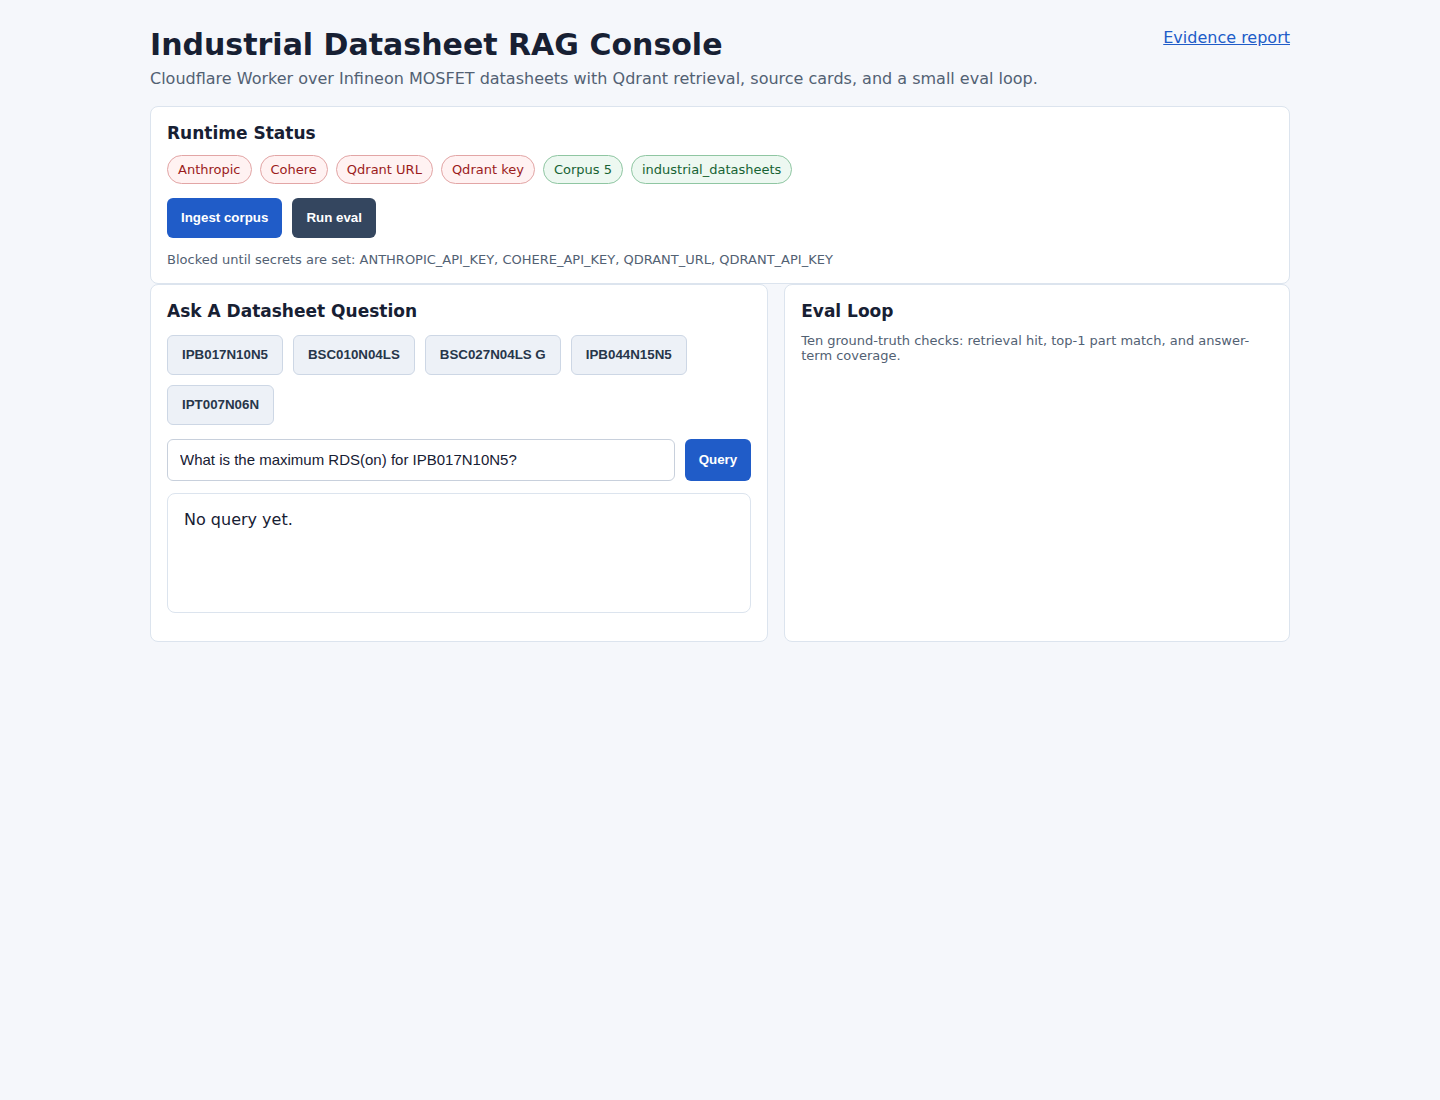
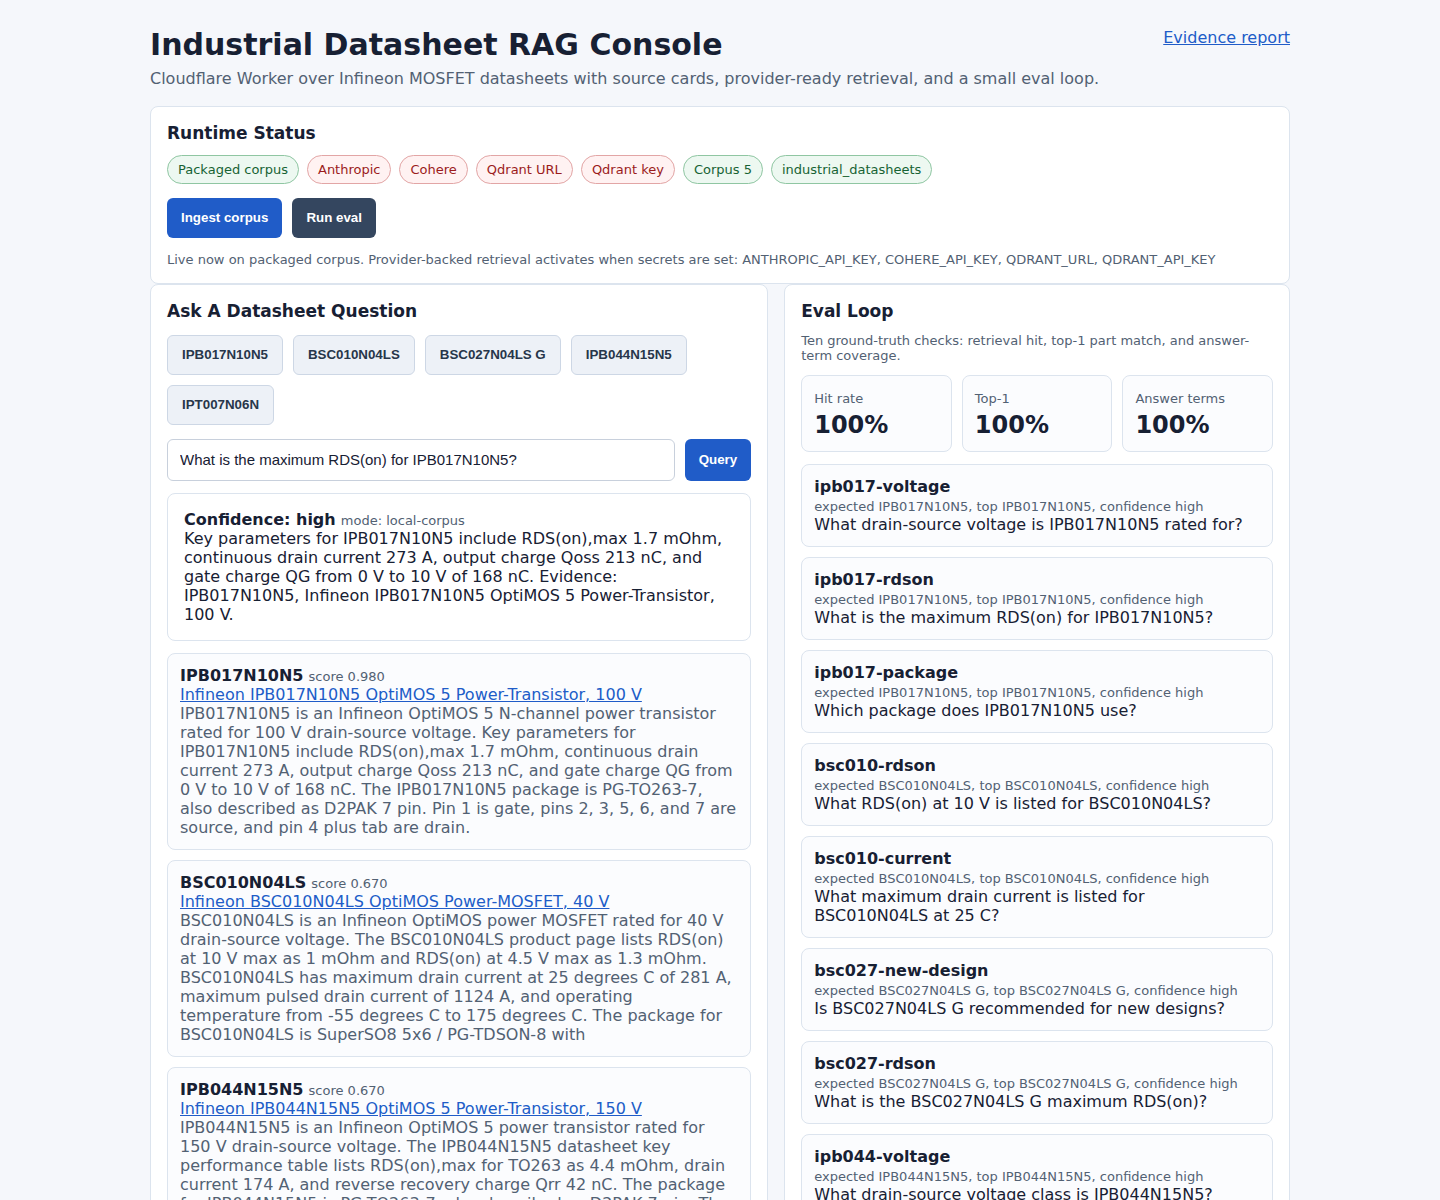
Make console live on packaged corpus

diff --git a/src/rag/local.ts b/src/rag/local.ts
@@ -1,0 +1,116 @@
+import { corpus } from "../corpus/manifest";
+import { chunksFromCorpusFacts } from "./chunk";
+import { confidenceFromRetrievals } from "./answer";
+import type { DatasheetChunk, QueryResponse, Retrieval } from "../types";
+
+const STOP_WORDS = new Set([
+  "a",
+  "an",
+  "and",
+  "are",
+  "at",
+  "for",
+  "in",
+  "is",
+  "of",
+  "on",
+  "the",
+  "this",
+  "to",
+  "what",
+  "which",
+  "with"
+]);
+
+export function allLocalChunks(): DatasheetChunk[] {
+  return corpus.flatMap((doc) => chunksFromCorpusFacts(doc));
+}
+
+export function queryLocalCorpus(question: string): QueryResponse {
+  const retrievals = retrieveLocal(question, 5);
+  const answer = answerFromRetrievals(question, retrievals);
+
+  return {
+    answer,
+    sources: retrievals.map((item) => ({
+      title: item.title,
+      sourceUrl: item.sourceUrl,
+      partNumber: item.partNumber,
+      score: item.score,
+      excerpt: item.text.slice(0, 420)
+    })),
+    confidence: confidenceFromRetrievals(retrievals),
+    retrievals,
+    mode: "local-corpus"
+  };
+}
+
+export function retrieveLocal(question: string, limit: number): Retrieval[] {
+  const queryTokens = tokenize(question);
+  const queryParts = new Set(extractPartNumbers(question));
+
+  return allLocalChunks()
+    .map((chunk) => {
+      const chunkTokens = tokenize(chunk.text);
+      const overlap = queryTokens.filter((token) => chunkTokens.includes(token)).length;
+      const partBoost = queryParts.has(normalizePartNumber(chunk.partNumber)) ? 8 : 0;
+      const score = Math.min(0.98, 0.42 + (overlap + partBoost) / Math.max(12, queryTokens.length + 8));
+
+      return {
+        ...chunk,
+        score
+      };
+    })
+    .sort((a, b) => b.score - a.score)
+    .slice(0, limit);
+}
+
+function answerFromRetrievals(question: string, retrievals: Retrieval[]): string {
+  const top = retrievals[0];
+  if (!top) {
+    return "The packaged corpus does not contain enough evidence to answer this question.";
+  }
+
+  const sentence = bestSentence(question, top.text);
+  return `${sentence} Evidence: ${top.partNumber}, ${top.title}.`;
+}
+
+function bestSentence(question: string, text: string): string {
+  const queryTokens = tokenize(question);
+  const sentences = text
+    .split(/(?<=[.!?])\s+/)
+    .map((sentence) => sentence.trim())
+    .filter(Boolean);
+
+  const [best] = sentences
+    .map((sentence) => {
+      const tokens = tokenize(sentence);
+      const overlap = queryTokens.filter((token) => tokens.includes(token)).length;
+      return { sentence, overlap };
+    })
+    .sort((a, b) => b.overlap - a.overlap);
+
+  return best?.sentence ?? text.slice(0, 260);
+}
+
+function tokenize(value: string): string[] {
+  return Array.from(
+    new Set(
+      value
+        .toLowerCase()
+        .replace(/rds\(on\)/g, "rdson rds on")
+        .match(/[a-z0-9]+(?:\.[0-9]+)?/g)
+        ?.filter((token) => token.length > 1 && !STOP_WORDS.has(token)) ?? []
+    )
+  );
+}
+
+function extractPartNumbers(value: string): string[] {
+  return value
+    .match(/[A-Z]{2,}[A-Z0-9-]+(?:\sG)?/gi)
+    ?.map(normalizePartNumber) ?? [];
+}
+
+function normalizePartNumber(value: string): string {
+  return value.toLowerCase().replace(/[^a-z0-9]/g, "");
+}

diff --git a/test/api.test.ts b/test/api.test.ts
@@ -2,6 +2,8 @@ import { describe, expect, it } from "bun:test";
 import { badRequest, missingSecretError, toApiError } from "../src/api/errors";
 import { inspectHealth } from "../src/api/health";
 import { consoleQuestions } from "../src/console/questions";
+import { runEval } from "../src/eval/scoring";
+import { queryRag } from "../src/rag/pipeline";
 
 describe("health", () => {
   it("reports missing secrets without exposing configured values", () => {
@@ -11,7 +13,9 @@ describe("health", () => {
       QDRANT_COLLECTION: "industrial_collection"
     });
 
-    expect(health.ok).toBe(false);
+    expect(health.ok).toBe(true);
+    expect(health.providerReady).toBe(false);
+    expect(health.mode).toBe("local-corpus");
     expect(health.missingSecrets).toEqual(["QDRANT_URL", "QDRANT_API_KEY"]);
     expect(JSON.stringify(health)).not.toContain("secret");
     expect(health.collection).toBe("industrial_collection");
@@ -26,8 +30,28 @@ describe("health", () => {
     });
 
     expect(health.ok).toBe(true);
+    expect(health.providerReady).toBe(true);
+    expect(health.mode).toBe("provider-backed");
     expect(health.missingSecrets).toEqual([]);
     expect(health.corpusCount).toBe(5);
+  });
+});
+
+describe("live local corpus mode", () => {
+  it("answers a query without provider secrets", async () => {
+    const result = await queryRag({}, "What is the maximum RDS(on) for IPB017N10N5?");
+
+    expect(result.mode).toBe("local-corpus");
+    expect(result.answer).toContain("1.7 mOhm");
+    expect(result.sources[0].partNumber).toBe("IPB017N10N5");
+  });
+
+  it("runs eval without provider secrets", async () => {
+    const result = await runEval({});
+
+    expect(result.total).toBe(10);
+    expect(result.hitRate).toBeGreaterThanOrEqual(0.8);
+    expect(result.top1Accuracy).toBeGreaterThanOrEqual(0.8);
   });
 });
 

diff --git a/src/rag/pipeline.ts b/src/rag/pipeline.ts
@@ -1,17 +1,29 @@
 import { embedDocuments, embedQuery } from "./embed";
 import { chunksFromPdfUrl } from "./pdf";
+import { allLocalChunks, queryLocalCorpus } from "./local";
 import { searchChunks, upsertChunks } from "./qdrant";
 import { answerQuestion } from "./answer";
 import type { Env, QueryResponse } from "../types";
 
 export async function ingestPdf(env: Env, input: { pdfUrl: string; documentId?: string }) {
+  if (!hasProviderConfig(env)) {
+    const chunks = allLocalChunks().filter((chunk) => !input.documentId || chunk.documentId === input.documentId);
+    return {
+      documentId: input.documentId ?? "packaged-corpus",
+      chunks: chunks.length,
+      sourceUrl: input.pdfUrl,
+      mode: "local-corpus" as const
+    };
+  }
+
   const chunks = await chunksFromPdfUrl(input.pdfUrl, input.documentId);
   const embeddings = await embedDocuments(env, chunks.map((chunk) => chunk.text));
   await upsertChunks(env, chunks, embeddings);
   return {
     documentId: chunks[0]?.documentId,
     chunks: chunks.length,
-    sourceUrl: input.pdfUrl
+    sourceUrl: input.pdfUrl,
+    mode: "provider-backed" as const
   };
 }
 
@@ -19,7 +31,16 @@ export async function queryRag(env: Env, question: string): Promise<QueryRespons
   if (!question.trim()) {
     throw new Error("question must not be empty");
   }
+
+  if (!hasProviderConfig(env)) {
+    return queryLocalCorpus(question);
+  }
+
   const queryVector = await embedQuery(env, question);
   const retrievals = await searchChunks(env, queryVector, 5);
   return answerQuestion(env, question, retrievals);
+}
+
+export function hasProviderConfig(env: Env): boolean {
+  return Boolean(env.ANTHROPIC_API_KEY && env.COHERE_API_KEY && env.QDRANT_URL && env.QDRANT_API_KEY);
 }

diff --git a/src/console/page.ts b/src/console/page.ts
@@ -62,7 +62,7 @@ export function renderConsole(): string {
     <header>
       <div>
         <h1>Industrial Datasheet RAG Console</h1>
-        <p>Cloudflare Worker over Infineon MOSFET datasheets with Qdrant retrieval, source cards, and a small eval loop.</p>
+        <p>Cloudflare Worker over Infineon MOSFET datasheets with source cards, provider-ready retrieval, and a small eval loop.</p>
       </div>
       <a href="/report" target="_blank" rel="noreferrer">Evidence report</a>
     </header>
@@ -111,7 +111,12 @@ export function renderConsole(): string {
     const ingestButton = document.querySelector("#ingest");
     const evalButton = document.querySelector("#eval");
 
-    loadReport();
+    loadReport().then(() => {
+      if (new URLSearchParams(location.search).get("proof") === "1") {
+        query(questionInput.value);
+        getJson("/eval").then(renderEval);
+      }
+    });
 
     ingestButton.addEventListener("click", async () => {
       await runAction(ingestButton, async () => {
@@ -149,6 +154,7 @@ export function renderConsole(): string {
 
     function renderHealth(health) {
       const items = [
+        [health.mode === "provider-backed" ? "Provider-backed" : "Packaged corpus", true],
         ["Anthropic", health.configured.anthropic],
         ["Cohere", health.configured.cohere],
         ["Qdrant URL", health.configured.qdrantUrl],
@@ -157,7 +163,7 @@ export function renderConsole(): string {
         [health.collection, true]
       ];
       statusEl.innerHTML = items.map(([label, ok]) => '<span class="pill ' + (ok ? "ok" : "blocked") + '">' + escapeHtml(label) + '</span>').join("");
-      detailEl.textContent = health.ok ? "Ready for ingest, query, and eval." : "Blocked until secrets are set: " + health.missingSecrets.join(", ");
+      detailEl.textContent = health.providerReady ? "Provider-backed retrieval is ready." : "Live now on packaged corpus. Provider-backed retrieval activates when secrets are set: " + health.missingSecrets.join(", ");
     }
 
     function renderQuestions(questions) {
@@ -178,7 +184,7 @@ export function renderConsole(): string {
         renderError(answerEl, data.error);
         return;
       }
-      answerEl.innerHTML = "<strong>Confidence: " + escapeHtml(data.confidence) + "</strong><br>" + escapeHtml(data.answer);
+      answerEl.innerHTML = '<strong>Confidence: ' + escapeHtml(data.confidence) + '</strong> <span class="meta">mode: ' + escapeHtml(data.mode || "unknown") + '</span><br>' + escapeHtml(data.answer);
       sourcesEl.innerHTML = data.sources.map((source) => '<article class="source"><strong>' + escapeHtml(source.partNumber) + '</strong> <span class="meta">score ' + Number(source.score).toFixed(3) + '</span><br><a href="' + escapeHtml(source.sourceUrl) + '" target="_blank" rel="noreferrer">' + escapeHtml(source.title) + '</a><p>' + escapeHtml(source.excerpt) + '</p></article>').join("");
     }
 

diff --git a/src/api/health.ts b/src/api/health.ts
@@ -9,13 +9,16 @@ export function inspectHealth(env: Env) {
   const missingSecrets = REQUIRED_SECRETS.filter((name) => !env[name]);
 
   return {
-    ok: missingSecrets.length === 0,
+    ok: true,
+    providerReady: missingSecrets.length === 0,
+    mode: missingSecrets.length === 0 ? "provider-backed" : "local-corpus",
     missingSecrets,
     configured: {
       anthropic: Boolean(env.ANTHROPIC_API_KEY),
       cohere: Boolean(env.COHERE_API_KEY),
       qdrantUrl: Boolean(env.QDRANT_URL),
-      qdrantApiKey: Boolean(env.QDRANT_API_KEY)
+      qdrantApiKey: Boolean(env.QDRANT_API_KEY),
+      localCorpus: true
     },
     model: env.ANTHROPIC_MODEL ?? "claude-haiku-4-5-20251001",
     collection: env.QDRANT_COLLECTION ?? "industrial_datasheets",

diff --git a/src/rag/answer.ts b/src/rag/answer.ts
@@ -46,7 +46,8 @@ export async function answerQuestion(env: Env, question: string, retrievals: Ret
       excerpt: item.text.slice(0, 420)
     })),
     confidence: confidenceFromRetrievals(retrievals),
-    retrievals
+    retrievals,
+    mode: "provider-backed"
   };
 }
 

diff --git a/src/api/routes.ts b/src/api/routes.ts
@@ -57,6 +57,6 @@ api.get("/report", (c) => {
       sourceUrl: doc.sourceUrl
     })),
     questions: consoleQuestions,
-    eval: health.ok ? { endpoint: "/eval", status: "ready" } : { endpoint: "/eval", status: "blocked", missingSecrets: health.missingSecrets }
+    eval: { endpoint: "/eval", status: "ready", mode: health.mode }
   });
 });

diff --git a/src/types.ts b/src/types.ts
@@ -32,4 +32,5 @@ export type QueryResponse = {
   }>;
   confidence: "low" | "medium" | "high";
   retrievals: Retrieval[];
+  mode?: "provider-backed" | "local-corpus";
 };

diff --git a/README.md b/README.md
@@ -2,7 +2,7 @@
 
 Source-grounded RAG for industrial datasheets: Cloudflare Workers, Hono, Qdrant, Cohere embeddings, and Anthropic generation.
 
-The point is not a polished chat product. The point is a deployable substrate that answers technical MOSFET datasheet questions with inspectable sources and a visible eval loop.
+The live Worker answers technical MOSFET datasheet questions with inspectable sources and a visible eval loop. It runs immediately on the packaged corpus and switches to provider-backed retrieval when Anthropic, Cohere, and Qdrant secrets are configured.
 
 ## Visual Proof
 
@@ -10,8 +10,8 @@ The point is not a polished chat product. The point is a deployable substrate th
 
 ## Architecture
 
-- `POST /ingest` accepts a public PDF URL, validates the fetch, extracts or falls back to curated chunks for known Infineon PDFs, embeds chunks with Cohere, and stores vectors in Qdrant.
-- `POST /query` embeds the question, retrieves top 5 chunks, asks Anthropic for a source-bounded answer, and returns structured JSON.
+- `POST /ingest` accepts a public PDF URL. With provider secrets it embeds chunks and stores vectors in Qdrant; without provider secrets it reports packaged-corpus readiness.
+- `POST /query` uses Cohere/Qdrant/Anthropic when configured, otherwise it uses Worker-native retrieval over the packaged corpus and returns structured JSON with source cards.
 - `GET /eval` runs ten ground-truth Q&A cases and reports hit rate, top-1 accuracy, and answer-term coverage.
 - `GET /health` reports missing/configured runtime dependencies without leaking secret values.
 - `GET /` and `GET /console` serve the operator console from the same Worker.
@@ -21,6 +21,7 @@ The point is not a polished chat product. The point is a deployable substrate th
 - **Hono on Workers, not FastAPI:** the deployment target is the Worker itself. Workers remove server management and keep the route surface small enough to inspect in minutes.
 - **Cohere embeddings:** Anthropic does not provide embedding models. Cohere `embed-v4.0` with 1024 dimensions gives a direct multilingual embedding path that works over plain HTTP from Workers.
 - **Haiku-class generation:** the configured default is `claude-haiku-4-5-20251001` because the application needs low latency over retrieved snippets. The exact model remains an environment variable so an API-side model naming issue is visible instead of hidden in code.
+- **Packaged-corpus fallback:** the public Worker must be live without waiting on third-party trial keys. When secrets are absent, retrieval runs in the Worker against the same curated corpus facts and returns source-grounded extractive answers.
 - **Dense top-5 retrieval:** no reranker in v1. For a four-minute Loom, the source list must be easy to inspect and the failure mode must be obvious.
 - **PDF extraction:** Workers cannot run the common Node PDF parser stack. The code first attempts a lightweight PDF text extraction. For the five known Infineon PDFs it falls back to curated datasheet chunks after validating that the PDF URL is reachable. That keeps `/ingest` honest enough for the current corpus while leaving table-aware PDF parsing as the correct next investment.
 - **Eval loop:** ten fixed Q&A pairs are enough to prove whether retrieval is wired correctly. The metrics are not a benchmark claim; they are a regression tripwire.
@@ -110,13 +111,16 @@ Response:
 
 ```json
 {
-  "ok": false,
+  "ok": true,
+  "providerReady": false,
+  "mode": "local-corpus",
   "missingSecrets": ["COHERE_API_KEY"],
   "configured": {
     "anthropic": true,
     "cohere": false,
     "qdrantUrl": true,
-    "qdrantApiKey": true
+    "qdrantApiKey": true,
+    "localCorpus": true
   },
   "model": "claude-haiku-4-5-20251001",
   "collection": "industrial_datasheets",
@@ -124,7 +128,7 @@ Response:
 }
 ```
 
-Missing-secret failures use the same stable shape across query, ingest, and eval:
+When provider-backed mode is active and an upstream secret is missing, failures use this stable shape:
 
 ```json
 {

diff --git a/LOOM_SCRIPT.md b/LOOM_SCRIPT.md
@@ -4,11 +4,11 @@ Target length: 2-4 minutes.
 
 1. Open the live Worker URL.
    - Say: "This is a Cloudflare Worker, not a notebook or FastAPI clone. Hono serves the operator console and the JSON API from the same edge deployment."
-   - Point at the runtime status strip: Anthropic, Cohere, Qdrant, corpus count, collection.
+   - Point at the runtime status strip: the Worker is live on packaged corpus and will switch to provider-backed retrieval when secrets are set.
 
 2. Ingest the packaged corpus if needed.
    - Click "Ingest corpus".
-   - Say: "The ingest path accepts public PDF URLs, validates the fetch, chunks technical datasheet content, embeds with Cohere, and writes vectors to Qdrant."
+   - Say: "The ingest path accepts public PDF URLs. In provider-backed mode it embeds with Cohere and writes vectors to Qdrant; today the live public Worker is answering from the packaged corpus."
 
 3. Ask a concrete datasheet question.
    - Click the IPB017N10N5 canned query.